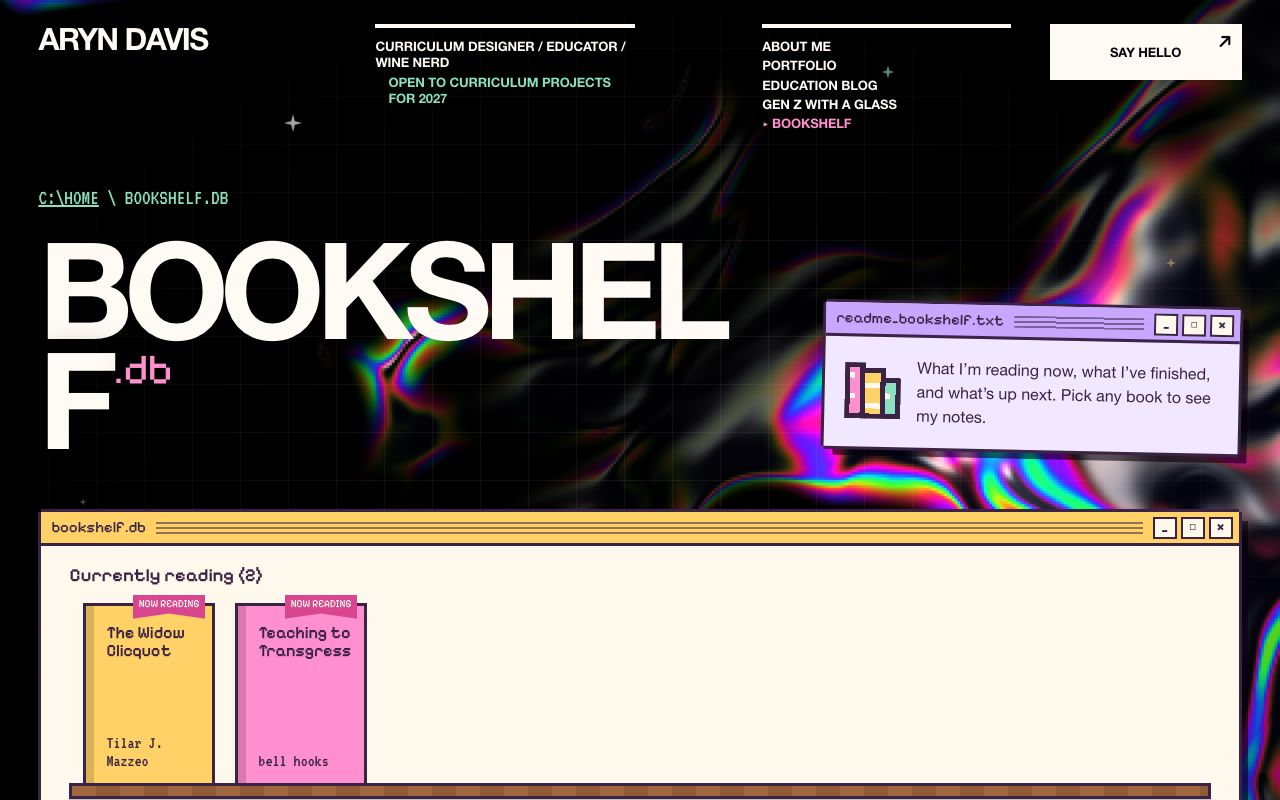
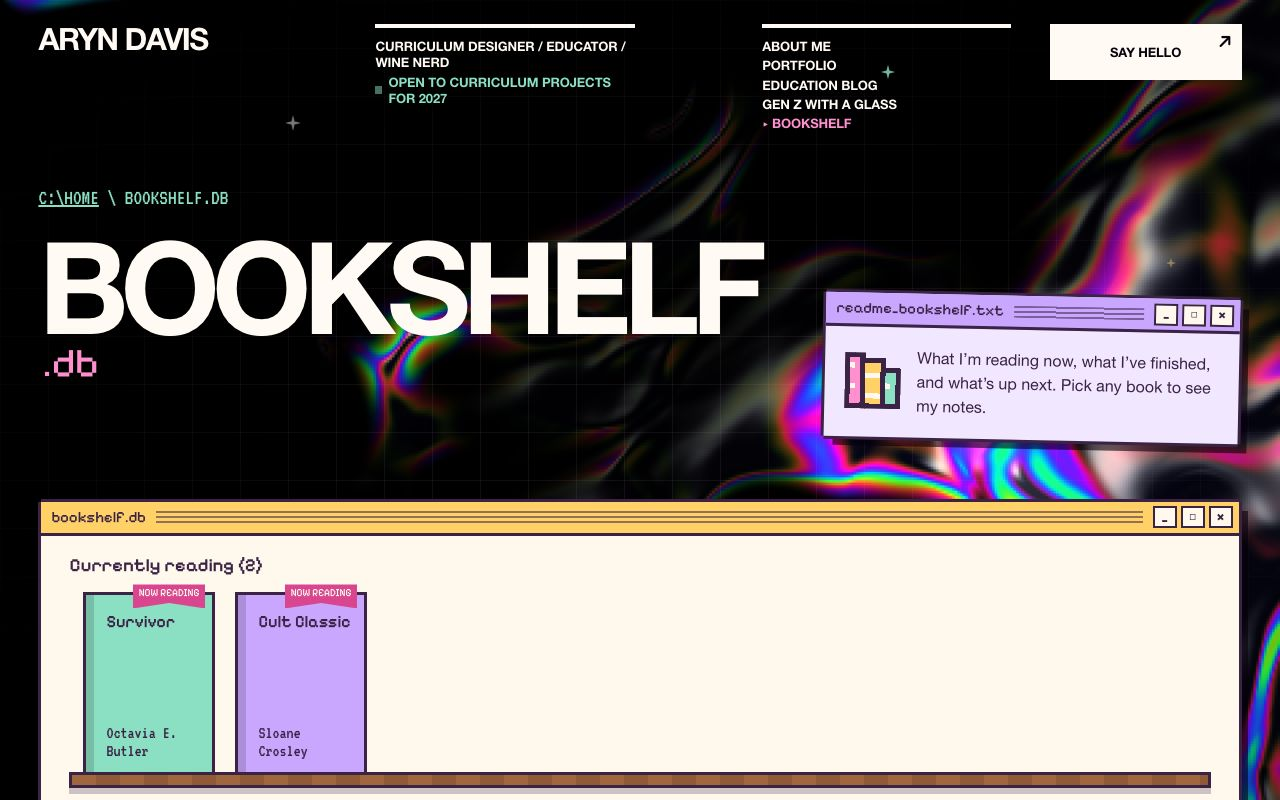
Currently reading: Survivor and Cult Classic
- Replace the sample 'currently reading' books with Survivor by Octavia
  E. Butler and Cult Classic by Sloane Crosley.
- Books without a date say 'Currently reading' instead of a bare
  'Started'.
- Page titles shrink to fit their column, so long words like BOOKSHELF
  no longer break mid-word (checked at 390 to 1920px).
- Retake the README screenshots.

diff --git a/src/content/books.ts b/src/content/books.ts
@@ -1,4 +1,4 @@
-// Sample books. Replace these with your own shelf.
+// The 'read' and 'want' books below are still samples. Replace them with your own shelf.
 // status: 'reading' shows face-out on the top shelf; 'read' and 'want' show as spines.
 
 export type BookStatus = 'reading' | 'read' | 'want'
@@ -20,21 +20,18 @@ export interface Book {
 
 export const books: Book[] = [
   {
-    slug: 'teaching-to-transgress',
-    title: 'Teaching to Transgress',
-    author: 'bell hooks',
+    slug: 'survivor',
+    title: 'Survivor',
+    author: 'Octavia E. Butler',
     status: 'reading',
-    color: 'pink',
-    date: '2026-09-28',
-    note: 'Sample entry. Write a line about why you picked this up.',
+    color: 'mint',
   },
   {
-    slug: 'the-widow-clicquot',
-    title: 'The Widow Clicquot',
-    author: 'Tilar J. Mazzeo',
+    slug: 'cult-classic',
+    title: 'Cult Classic',
+    author: 'Sloane Crosley',
     status: 'reading',
-    color: 'yellow',
-    date: '2026-10-05',
+    color: 'lilac',
   },
   {
     slug: 'understanding-by-design',

diff --git a/src/pages/Bookshelf.tsx b/src/pages/Bookshelf.tsx
@@ -12,6 +12,8 @@ const newestFirst = (list: Book[]) => [...list].sort((a, b) => (b.date ?? '').lo
 const bookLink = (book: Book) => href(`${bookshelf.path}/${book.slug}`)
 
 const dateLabel: Record<BookStatus, string> = { reading: 'Started', read: 'Finished', want: 'Want to read' }
+// Shown when a book has no date.
+const statusLabel: Record<BookStatus, string> = { reading: 'Currently reading', read: 'Read', want: 'Want to read' }
 
 // Stable, slightly varied spine sizes so the shelf doesn't look machine-made.
 function spineSize(book: Book) {
@@ -66,7 +68,7 @@ function BookPopup({ book }: { book: Book }) {
     <Popup fileName={`bookshelf/${book.slug}.book`} closePath={bookshelf.path} titleId={titleId} contentKey={book.slug}>
       <p className="post-date">
         {book.status === 'want' || !book.date ? (
-          dateLabel[book.status]
+          statusLabel[book.status]
         ) : (
           <>
             {dateLabel[book.status]} <time dateTime={book.date}>{formatDate(book.date)}</time>

diff --git a/src/styles.css b/src/styles.css
@@ -689,11 +689,19 @@ button.pixel-button:active {
 /* ---------- Section pages ---------- */
 
 .page-hero {
+  --hero-side: 420px;
   display: grid;
-  grid-template-columns: 1fr minmax(260px, 420px);
+  grid-template-columns: 1fr minmax(260px, var(--hero-side));
   gap: 24px 40px;
   align-items: end;
   padding-block: 32px 56px;
+  container-type: inline-size;
+}
+
+/* Shrink page titles to fit their column, so a long word like BOOKSHELF never breaks mid-word.
+   5.8em fits the longest single word plus its file extension (e.g. PORTFOLIO.exe). */
+.page-hero .mega {
+  font-size: min(clamp(3.4rem, 10.5vw, 9.5rem), (100cqi - var(--hero-side) - 40px) / 5.8);
 }
 
 .page-path {
@@ -1192,6 +1200,10 @@ a.pixel-button.substack-link:hover {
   .page-hero {
     grid-template-columns: 1fr;
     grid-template-rows: none;
+  }
+
+  .page-hero .mega {
+    font-size: min(clamp(3.4rem, 10.5vw, 9.5rem), 100cqi / 5.8);
   }
 
   .home-hero > *,
